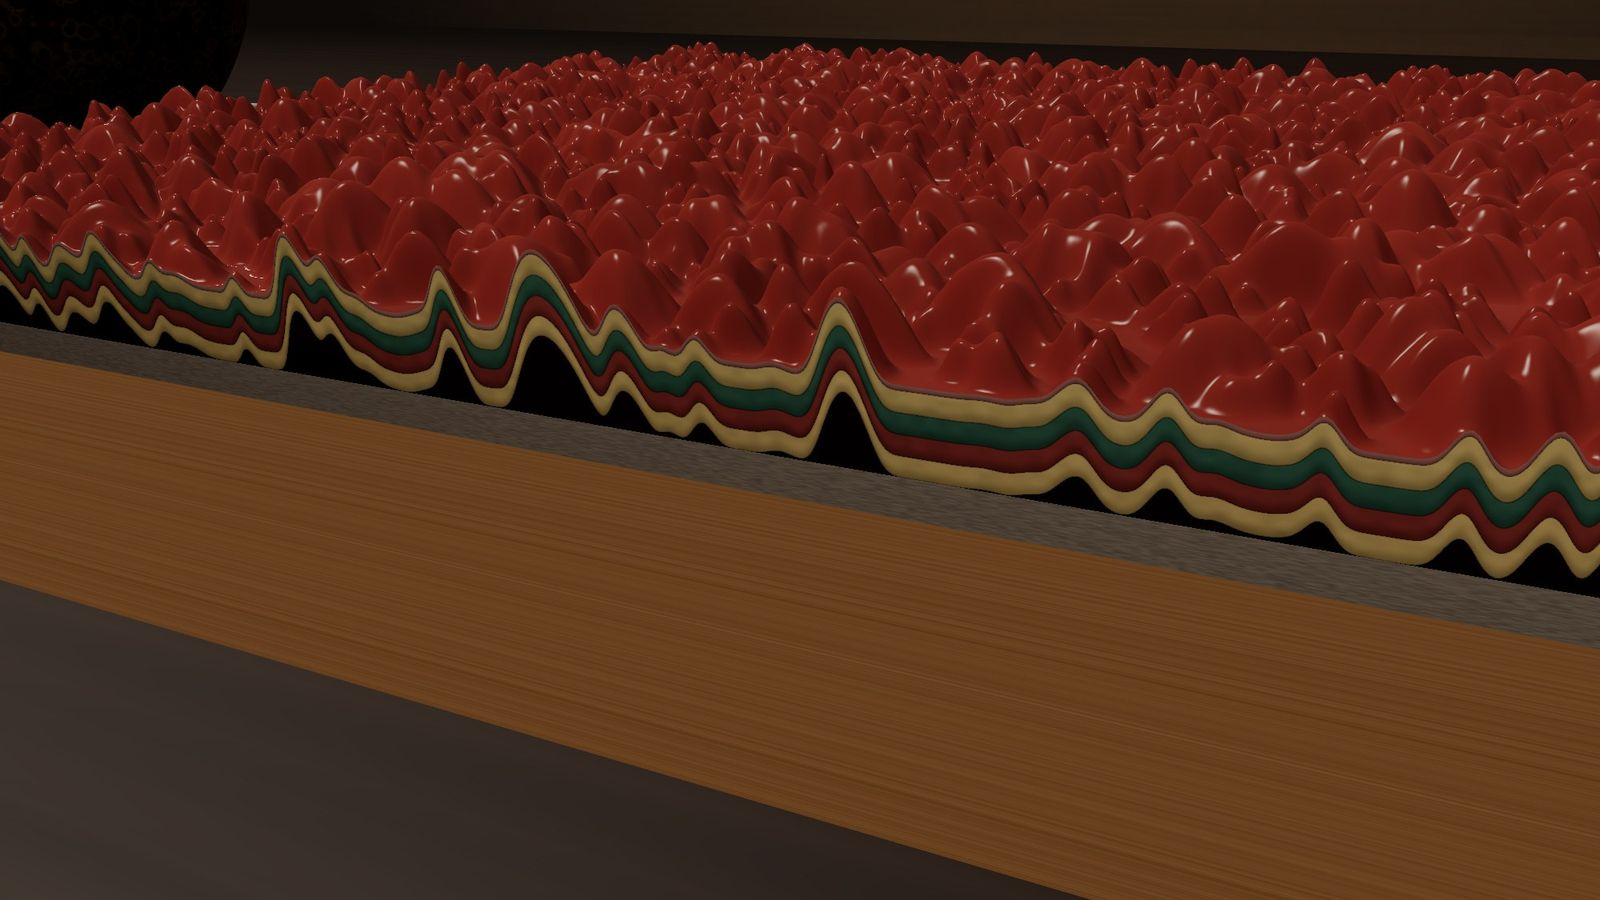
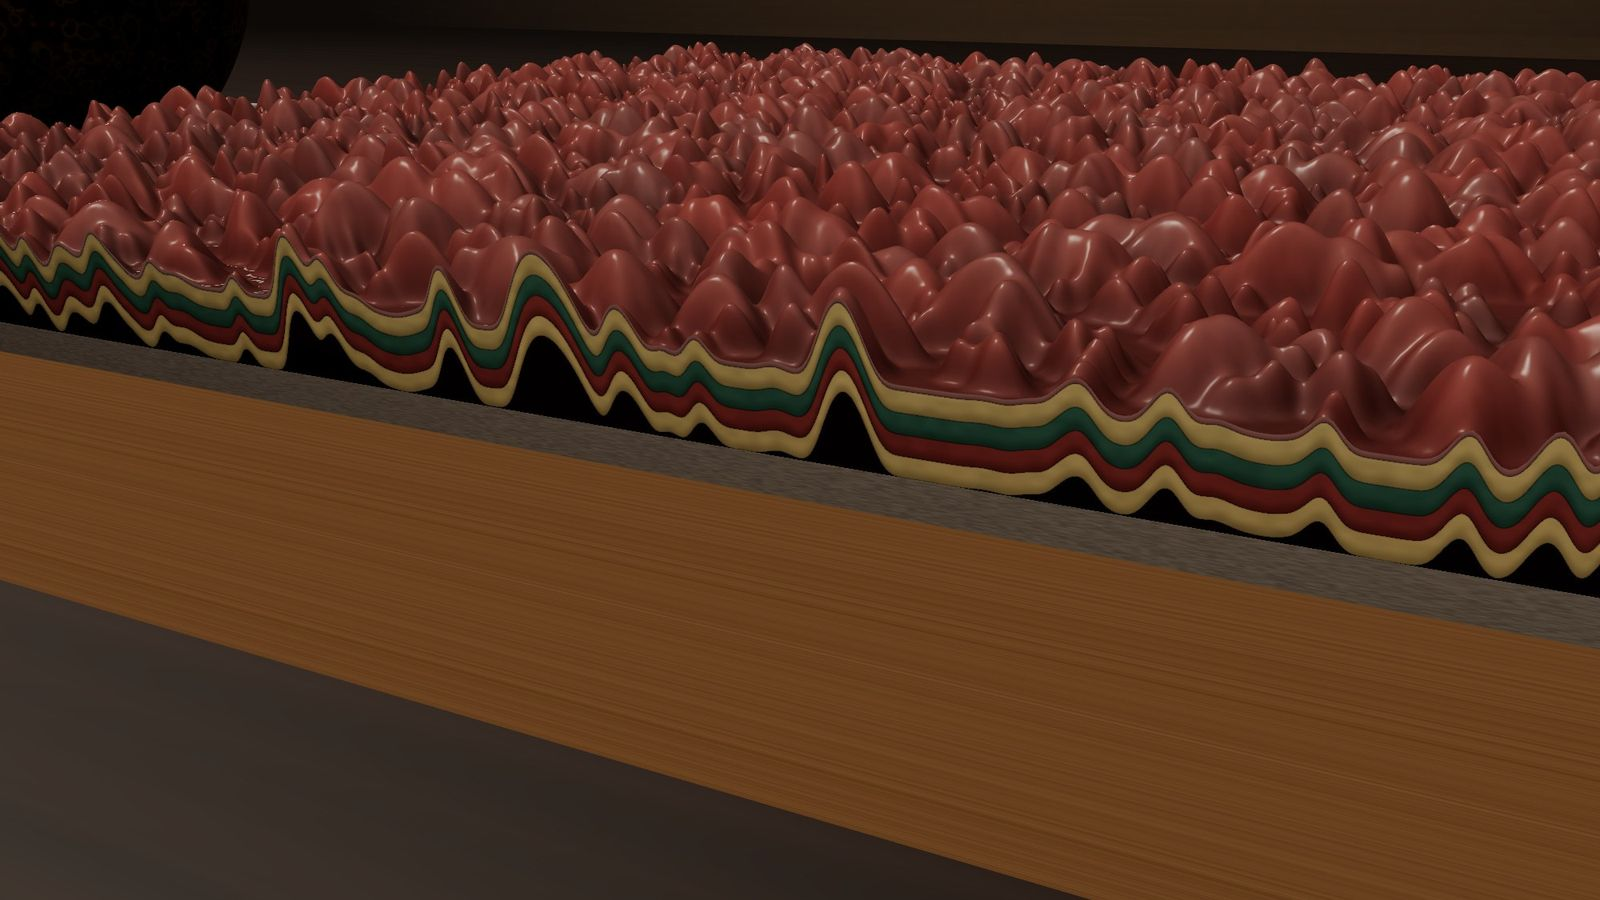
津軽塗の見本：黒い山と研ぐ場面を明るくして形と模様が読めるように。赤い山のCGっぽさを下げる
切り口の説明は断定をやめ、説明用の絵で職人さんの確認はこれからと書く。入口の絵も撮り直す。

Changed region(s): [[0.0, 0.0311, 1.0, 0.5289]]

diff --git a/tsugaru/index.html b/tsugaru/index.html
@@ -14,8 +14,9 @@
 html,body{margin:0;background:var(--night);color:var(--ink);font-family:"Noto Sans JP",system-ui,sans-serif}
 canvas#c{position:fixed;inset:0;width:100%;height:100%;display:block}
 #scroll{height:1100vh}
-#scrim{position:fixed;inset:0;pointer-events:none;background:linear-gradient(90deg,rgba(13,9,7,.93) 0,rgba(13,9,7,.76) 34%,rgba(13,9,7,0) 60%)}
+#scrim{position:fixed;inset:0;pointer-events:none;background:linear-gradient(90deg,rgba(13,9,7,.84) 0,rgba(13,9,7,.58) 30%,rgba(13,9,7,0) 50%)}
 .cap{position:fixed;left:clamp(20px,5vw,72px);top:50%;transform:translateY(-50%);width:min(42vw,580px);opacity:0;visibility:hidden;pointer-events:none}
+.cap h2,.cap p{text-shadow:0 1px 3px rgba(0,0,0,.9),0 0 18px rgba(0,0,0,.6)}
 .cap h2{margin:0 0 .55em;font-weight:900;font-size:clamp(28px,3.5vw,52px);line-height:1.32;letter-spacing:.01em;word-break:auto-phrase;text-wrap:balance}
 .cap p{margin:0 0 .9em;font-size:clamp(15px,1.25vw,18px);line-height:1.85;color:var(--mute);word-break:auto-phrase;text-wrap:pretty}
 .cap em{font-style:normal;color:var(--shu)}
@@ -142,20 +143,35 @@ const topMat=new THREE.ShaderMaterial({uniforms:U,vertexShader:common+`varying v
    float w=fwidth(kk)*1.2,f=fract(kk);if(kk>=0.&&w>0.&&w<.6&&f<w){int a2=int(clamp(floor(kk)-1.,0.,uN-1.));c=mix(floor(kk)<1.?uCore:uPal[a2],c,.5+.5*f/w);}
    c*=.9+.2*vn(vU*23.);}
   vec3 V=normalize(cameraPosition-vW),L1=normalize(vec3(-.45,.85,.3)),L2=normalize(vec3(.6,.4,.3));
-  float rough=cut?mix(.75,.05,uGloss):.14;
+  float rough=cut?mix(.75,.05,uGloss):.26;
+  float pile=smoothstep(0.,uA*.55+1e-4,b);
+  if(!cut&&uCoats>=.02){
+   float l0=dot(c,vec3(.3,.59,.11));c=mix(vec3(l0),c,.86);c*=.8;
+   c*=.82+.36*vn(vU*31.);
+   N=normalize(N+vec3(vn(vU*520.)-.5,0.,vn(vU*520.+7.)-.5)*.1+vec3(vn(vU*90.)-.5,0.,vn(vU*90.+3.)-.5)*.1);
+  }
   if(cut&&uGloss<.5){float sc=hs(floor(vU*vec2(1400.,40.)))*.5+.5;c*=mix(.86+.14*sc,1.,uGloss*2.);N=normalize(N+vec3(0.,0.,(sc-.75)*.06*(1.-uGloss*2.)));}
-  float diff=max(dot(N,L1),0.)*.85+max(dot(N,L2),0.)*.18+.34;
+  float diff=max(dot(N,L1),0.)*.85+max(dot(N,L2),0.)*.18+.34;if(cut)diff=mix(1.5,diff,uGloss);
   float ph=mix(14.,340.,1.-rough);
   vec3 H=normalize(L1+V);float sp=pow(max(dot(N,H),0.),ph)*(1.-rough)*.35;
   vec3 R=reflect(-V,N);
   // 高い所の格子窓が映る。研いだばかりの面はぼやけ、艶が出ると格子まで見える
   float soft=mix(.02,.5,rough);vec2 q=R.xz/(abs(R.y)+.18);
+  V=normalize(V);
   float win=smoothstep(soft,0.,max(abs(q.x+2.3)-.8,abs(q.y)-1.))*step(0.,R.y);
   vec2 cell=abs(fract(vec2(q.x+2.3,q.y)*vec2(2.1,1.45))-.5);
   win*=mix(1.,smoothstep(.0,.045,.5-max(cell.x,cell.y)),1.-rough);win*=smoothstep(.93,.995,N.y);
   float room=mix(.015,.13,smoothstep(-.1,.9,R.y));
   float fr=.045+.955*pow(1.-max(dot(N,V),0.),5.);
   vec3 col=c*diff*(1.-rough*.08)+vec3(1.,.96,.86)*(sp+(win*2.2+room)*fr*mix(.35,1.,1.-rough));
+  if(!cut&&uCoats>=.02){
+   // 漆の肌：谷は暗く、斜面に部屋の明かりが広く映る。黒い山でも形が読める
+   col*=mix(.5,1.,pile);
+   float up=smoothstep(-.05,.95,R.y);
+   float broad=pow(max(dot(N,normalize(L1+V)),0.),9.);
+   float rimL=pow(1.-max(dot(N,V),0.),2.2);
+   float lc=dot(c,vec3(.3,.59,.11));col+=mix(vec3(1.,.93,.82),c/max(lc,.001)*.9,smoothstep(.015,.07,lc)*.7)*mix(1.,.55,smoothstep(.015,.07,lc))*(mix(.004,.038,up)*mix(.4,1.,pile)+broad*.055+rimL*.03*mix(.4,1.,pile));
+  }
   if(cut){vec2 d=q-vec2(.2,-.66)+(vec2(vn(vU*7.),vn(vU*7.+9.))-.5)*.1;float sh=exp(-dot(d,d)*9.)*uGloss;col*=1.-.25*sh;col+=vec3(1.,.95,.84)*sh*.1;col*=.82+.3*uGloss;}
   gl_FragColor=vec4(col,1.);
   #include <tonemapping_fragment>
@@ -252,7 +268,7 @@ const keys=[
  {p:.17,c:V(1.6,.42,3.9),l:V(.9,-.08,2.1)},{p:.26,c:V(1.5,.42,3.7),l:V(.9,-.04,2.1)},
  {p:.31,c:V(1.9,2.4,4.2),l:V(.6,.05,1)},{p:.41,c:V(1.4,2,3.6),l:V(.5,.1,1)},
  {p:.46,c:V(1.55,.62,3.75),l:V(.72,.06,2.1)},{p:.59,c:V(1.3,.66,3.5),l:V(.68,.08,2.1)},
- {p:.635,c:V(2.8,3.8,4.8),l:V(.6,.05,.1)},{p:.68,c:V(2.6,3.5,4.6),l:V(.6,.05,.1)},
+ {p:.635,c:V(2.15,1.7,3.75),l:V(.85,.05,1.15)},{p:.68,c:V(1.95,1.55,3.5),l:V(.85,.05,1.15)},
  {p:.74,c:V(1.5,2.5,3),l:V(.5,.2,.5)},{p:.85,c:V(1.25,2.1,2.5),l:V(.5,.2,.5)},
  {p:.91,c:V(1.1,4.5,3.9),l:V(.5,-.1,.15)},{p:1,c:V(1,4.7,3.7),l:V(.5,-.1,.15)}];
 const cp=new THREE.Vector3(),cl=new THREE.Vector3();
@@ -278,8 +294,8 @@ function apply(p,t){
  U.uCoats.value=Math.max(N*finish,N*coat);
  let L=Ltop;
  if(finish>.001)L=Lgood;
- if(p>.135&&p<.72)L=Ltop;
- if(p>=.72)L=Ltop+(Lgood-Ltop)*grind;
+ if(p>.135&&p<.72)L=Ltop;if(p>.70&&p<.72)L=Ltop+(Ltop*.8-Ltop)*ss(.70,.72,p);
+ if(p>=.72)L=Ltop*.8+(Lgood-Ltop*.8)*grind;
  let gloss=finish;
  if(p>=.885){const on=ss(.885,.905,p);
   const v=sliderEl?+sliderEl.value:.5;
